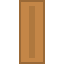
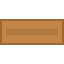
Fixes rotation of shots by bot

diff --git a/src/projectiles/Projectile.ts b/src/projectiles/Projectile.ts
@@ -26,9 +26,7 @@ export class Projectile extends Phaser.GameObjects.Image {
     this.projectileType = type;
     this.speed = speed;
     this.damage = damage;
-    this.setAngle(angle + 90)
-      .setOrigin(0.5, 0.5)
-      .setDisplaySize(10, 10);
+    this.setAngle(angle).setOrigin(0.5, 0.5).setDisplaySize(10, 10);
     if (this.body instanceof Phaser.Physics.Arcade.Body) {
       const xVelocity = Math.cos((angle * Math.PI) / 180) * this.speed;
       const yVelocity = Math.sin((angle * Math.PI) / 180) * this.speed;

diff --git a/src/Player.ts b/src/Player.ts
@@ -74,7 +74,7 @@ export class Player extends Phaser.GameObjects.Image {
       loop: true,
     });
 
-    this.setAngle(270).setOrigin(0.5, 0.5).setDisplaySize(35, 43);
+    this.setOrigin(0.5, 0.5).setDisplaySize(35, 43);
     this.socket = socket;
     scene.physics.world.enable(this);
     this.body.setCollideWorldBounds();

diff --git a/src/Bot.ts b/src/Bot.ts
@@ -43,6 +43,8 @@ export class Bot extends Enemy {
       playerId: this.playerId,
     });
 
+    console.log(this.angle);
+    console.log(projectile.angle);
     this.socket.emit('projectileFiring', {
       x: projectile.x,
       y: projectile.y,
